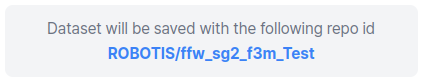
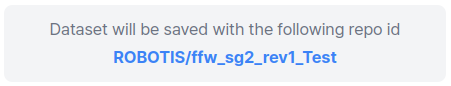
fix robot type on repo id example

Changed region(s): [[0.0924, 0.25, 0.8934, 0.475], [0.2464, 0.575, 0.7701, 0.775]]

diff --git a/docs/ai_worker/dataset_preparation_visualization_ai_worker.md b/docs/ai_worker/dataset_preparation_visualization_ai_worker.md
@@ -27,7 +27,7 @@ python lerobot/scripts/visualize_dataset_html.py \
   --repo-id YOUR_REPO_ID
 ```
   - Replace **YOUR_REPO_ID** with the dataset ID found under the **User ID** section in the right sidebar.
-  - For example: `ROBOTIS/ffw_sg2_f3m_Test` 
+  - For example: `ROBOTIS/ffw_sg2_rev1_Test` 
   <div class="UI" style="width: 50%; margin: 0 auto;">
   <img src="/imitation_learning/web_ui_task_info_repo_id_ffw.png" alt="Web UI" style="width: 100%; ">
 </div>
